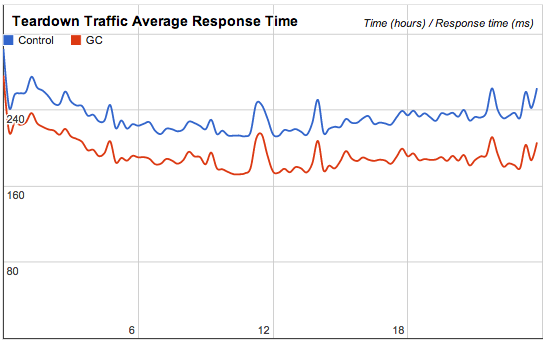
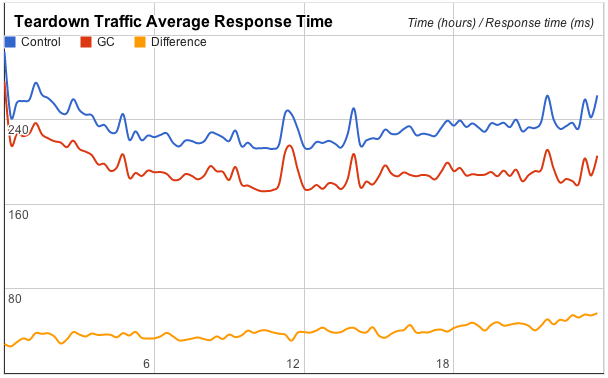
Update graphs and add Memcached usage

diff --git a/thesis.tex b/thesis.tex
@@ -1068,12 +1068,16 @@ This phenomenon is explained in Section~\ref{resultsAnalysis}.
 \label{tab:averageExperimentCounts}
 \end{table}
 
-Figures~\ref{fig:teardownRespTimeXTime} and~\ref{fig:normalRespTimeXTime} show that average response time has decreased uniformly for our generational caching implementation.
+Figures~\ref{fig:teardownRespTimeXTime}~and~\ref{fig:normalRespTimeXTime} show that average response time has decreased uniformly for our generational caching implementation.
 Likewise, Figures~\ref{fig:teardownHTMLRenderTimeXTime}~and~\ref{fig:normalHTMLRenderTimeXTime} show that HTML render time decreases quickly at the beginning and continues to decrease as time goes on.
 Equilibrium is reached much more quickly in the teardown traffic than the normal traffic.
-A similar phenomenon can be seen in \textsf{Memcached} miss count, shown in Figures~\ref{fig:teardownMissCountXTime} and~\ref{fig:normalMissCountXTime}.
+A similar phenomenon can be seen in \textsf{Memcached} miss count, shown in Figures~\ref{fig:teardownMissCountXTime}~and~\ref{fig:normalMissCountXTime}.
 For the majority of the experiments, miss counts are remarkably similar between the control and our generational caching implementation.
 Response time, HTML render time, and cache miss count increase around hour 21 which is marked by ``Start of cache expirations''.
+
+Figures~\ref{fig:teardownMemcachedUsageXTime}~and~\ref{fig:normalMemcachedUsageXTime} show the amount of space used in \textsf{Memcached} as reported by the {\tt bytes} value in {\tt Memcached::getExtendedStats()}\cite{memcachedStatsDocs}.
+Usage is significantly higher for generational caching than the control and continues to increase over time.
+The control appears to have reached an asymptote after 48 hours.
 
 \begin{figure}[htp]
 \centering
@@ -1116,6 +1120,20 @@ Response time, HTML render time, and cache miss count increase around hour 21 wh
 \label{fig:normalMissCountXTime}
 \end{figure}
 
+
+\begin{figure}[htp]
+\centering
+\includegraphics[width=\textwidth]{assets/teardownMemcachedUsageXTime.png}
+\caption{Teardown traffic Memcached usage over time}
+\label{fig:teardownMemcachedUsageXTime}
+\end{figure}
+\begin{figure}[htp]
+\centering
+\includegraphics[width=\textwidth]{assets/normalMemcachedUsageXTime.png}
+\caption{Normal traffic Memcached usage over time}
+\label{fig:normalMemcachedUsageXTime}
+\end{figure}
+
 \section{Analysis} \label{resultsAnalysis}
 In general, measured values reach equilibrium much more quickly during teardown traffic because over 30\% of the requests are for the teardown, which gets cached very early on.
 The normal traffic experiments request a larger breadth of content so a smaller percentage of requested content is cached.
@@ -1132,7 +1150,7 @@ Caching HTML in our generational caching implementation eliminates the need for 
 Similarly, cache hit rate decreases for the generational caching implementation because there are no longer a large number of cache hits for rendered wiki text.
 
 \textsf{Memcached} miss counts remain at nearly the same values between the control and generational caching runs for most of the experiment because the requested content is either cached or uncached in both experiments.
-The first few hours demonstrate how requesting uncached content affects misses because \textsf{Memcached} is flushed at the very beginning of the experiments.
+The first few hours demonstrate how requesting uncached content affects misses because \textsf{Memcached} is flushed immediately before the experiments.
 There are a large number of misses for the control because of the \textsf{Memcached} {\tt multiGet} call for rendered wiki text.
 Our generational caching implementation also has a large number of misses because cache misses result in more cache {\tt get}s for nested content which are also misses.
 They diverge around hour 22 because most guide cache times are set to expire after 24 hours.
